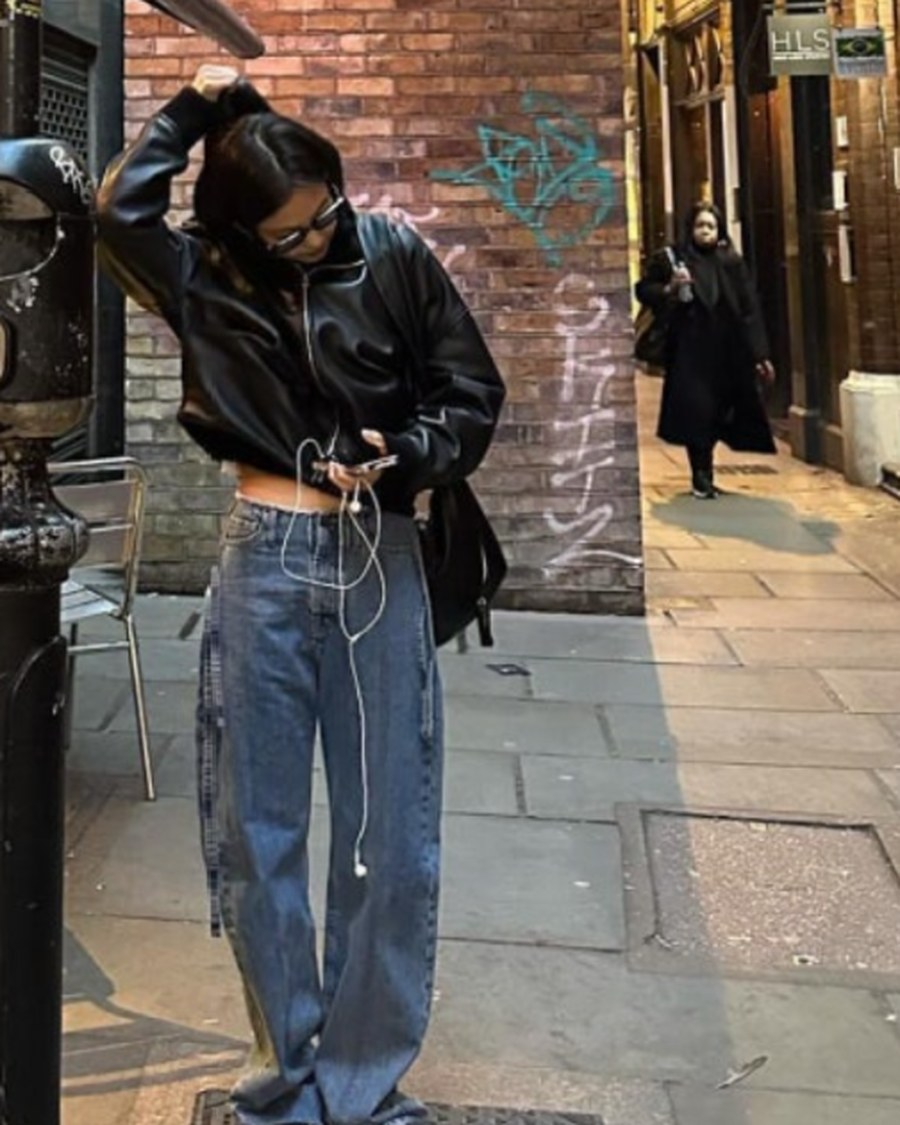
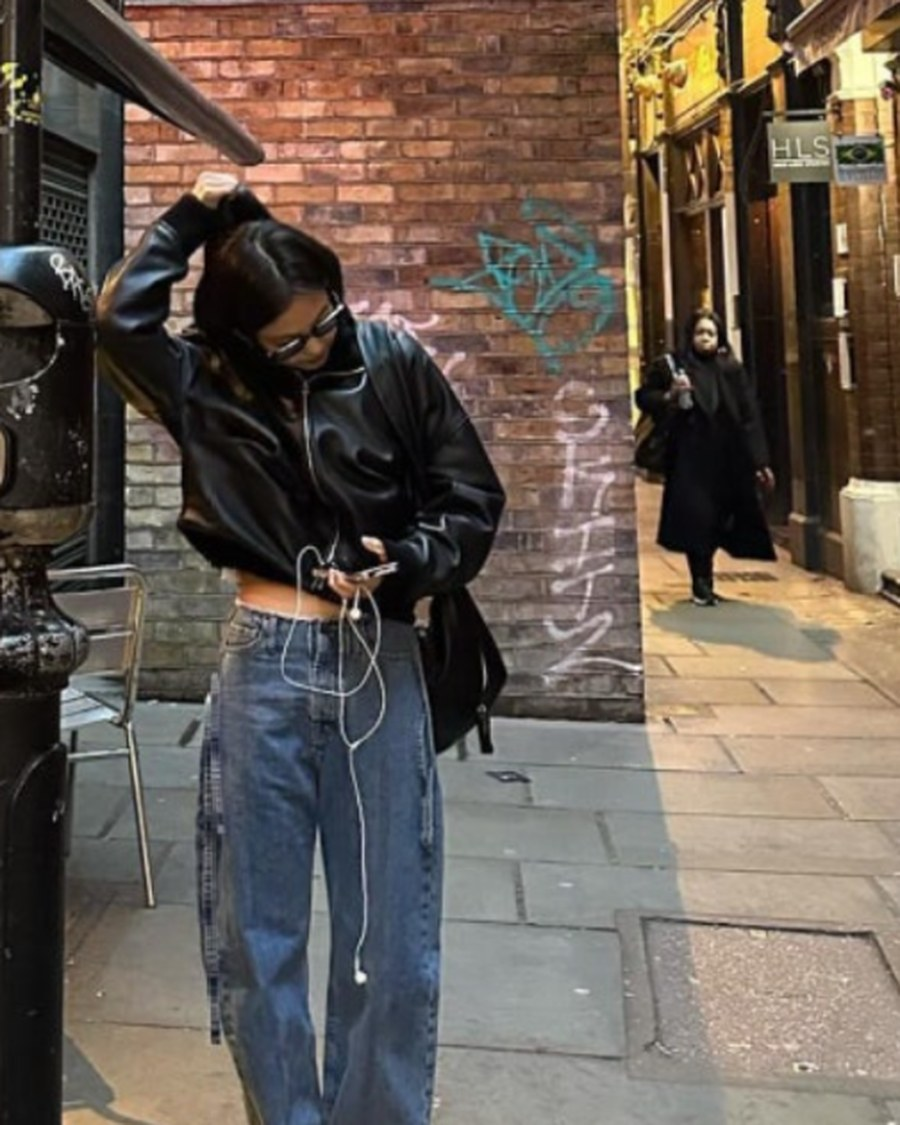
fix: 비교표 테이블 스타일, 카드 스크림 강화, 제니 이미지 크롭 보정

diff --git a/data/looks.js b/data/looks.js
@@ -10,8 +10,8 @@
 window.SFP_LOOKS = [
   {
     id: "jiwon-aloro-velvet",
-    image: "assets/looks/jiwon-aloro-velvet.webp?v=20261120b",
-    imageJpg: "assets/looks/jiwon-aloro-velvet.jpg?v=20261120b",
+    image: "assets/looks/jiwon-aloro-velvet.webp?v=20261120e",
+    imageJpg: "assets/looks/jiwon-aloro-velvet.jpg?v=20261120e",
     photo: {label: "PAP 매거진", kind: "photo", what: "공항 출국 현장 촬영", url: "https://www.pap-magazine.com/article/kim-ji-won-duvetica-airport-fashion-japan-fan-meeting"},
     imageAlt: "인천공항 출국길, 검정 벨벳 미드 다운 재킷에 화이트 니트와 블랙 쇼츠, 니삭스 차림으로 걷는 김지원",
     celeb: "김지원",
@@ -58,8 +58,8 @@ window.SFP_LOOKS = [
   },
   {
     id: "jiwon-teramo-backpack",
-    image: "assets/looks/jiwon-teramo-backpack.webp?v=20261120b",
-    imageJpg: "assets/looks/jiwon-teramo-backpack.jpg?v=20261120b",
+    image: "assets/looks/jiwon-teramo-backpack.webp?v=20261120e",
+    imageJpg: "assets/looks/jiwon-teramo-backpack.jpg?v=20261120e",
     photo: {label: "PAP 매거진", kind: "photo", what: "공항 출국 현장 촬영", url: "https://www.pap-magazine.com/article/kim-ji-won-duvetica-airport-fashion-japan-fan-meeting"},
     imageAlt: "인천공항 출국길, 검정 벨벳 패딩에 퀼팅 벨벳 백팩을 메고 걷는 김지원",
     celeb: "김지원",
@@ -105,8 +105,8 @@ window.SFP_LOOKS = [
   },
   {
     id: "jennie-subu-dot",
-    image: "assets/looks/jennie-subu-dot.webp?v=20261120b",
-    imageJpg: "assets/looks/jennie-subu-dot.jpg?v=20261120b",
+    image: "assets/looks/jennie-subu-dot.webp?v=20261120e",
+    imageJpg: "assets/looks/jennie-subu-dot.jpg?v=20261120e",
     photo: {label: "제니 인스타그램", kind: "photo", what: "인스타그램 공개 사진", url: "https://www.instagram.com/jennierubyjane/"},
     imageAlt: "런던 거리에서 레더 보머 재킷과 로즈 데님, 도트 패턴 수부 패딩 슬리퍼를 신은 제니",
     celeb: "제니",
@@ -153,8 +153,8 @@ window.SFP_LOOKS = [
   },
   {
     id: "wooyoung-tomboy-check",
-    image: "assets/looks/wooyoung-tomboy-check.webp?v=20261120b",
-    imageJpg: "assets/looks/wooyoung-tomboy-check.jpg?v=20261120b",
+    image: "assets/looks/wooyoung-tomboy-check.webp?v=20261120e",
+    imageJpg: "assets/looks/wooyoung-tomboy-check.jpg?v=20261120e",
     photo: {label: "디스패치", kind: "photo", what: "공항 출국 현장 촬영", url: "https://www.dispatch.co.kr/2342671"},
     imageAlt: "김포공항 출국길, 핑크 체크 셔츠에 데님과 레드 캡, 마스크 차림의 우영",
     celeb: "우영",
@@ -201,8 +201,8 @@ window.SFP_LOOKS = [
   },
   {
     id: "yoonseok-kume-knit",
-    image: "assets/looks/yoonseok-kume-knit.webp?v=20261120b",
-    imageJpg: "assets/looks/yoonseok-kume-knit.jpg?v=20261120b",
+    image: "assets/looks/yoonseok-kume-knit.webp?v=20261120e",
+    imageJpg: "assets/looks/yoonseok-kume-knit.jpg?v=20261120e",
     photo: {label: "SBS 틈만나면", kind: "photo", what: "64회 방송 화면", url: "https://programs.sbs.co.kr/enter/teum/vod/82255/22000639190"},
     imageAlt: "틈만나면, 시즌5 64회, 멜란지 그레이 컬러블록 넥라인 니트를 입고 이야기하는 유연석",
     celeb: "유연석",
@@ -247,8 +247,8 @@ window.SFP_LOOKS = [
   },
   {
     id: "seungho-diesel-biker",
-    image: "assets/looks/seungho-diesel-biker.webp?v=20261120b",
-    imageJpg: "assets/looks/seungho-diesel-biker.jpg?v=20261120b",
+    image: "assets/looks/seungho-diesel-biker.webp?v=20261120e",
+    imageJpg: "assets/looks/seungho-diesel-biker.jpg?v=20261120e",
     photo: {label: "SBS 틈만나면", kind: "photo", what: "62회 방송 화면", url: "https://programs.sbs.co.kr/enter/teum/clip/82063/OC482566177"},
     imageAlt: "틈만나면, 시즌5 62회, 베이지와 그린 컬러블록 레더 재킷을 입고 웃는 신승호",
     celeb: "신승호",
@@ -294,8 +294,8 @@ window.SFP_LOOKS = [
   },
   {
     id: "doyeon-atelier-yak",
-    image: "assets/looks/doyeon-atelier-yak.webp?v=20261120b",
-    imageJpg: "assets/looks/doyeon-atelier-yak.jpg?v=20261120b",
+    image: "assets/looks/doyeon-atelier-yak.webp?v=20261120e",
+    imageJpg: "assets/looks/doyeon-atelier-yak.jpg?v=20261120e",
     photo: {label: "아틀리에 나인 룩북", kind: "product", what: "브랜드 공식 룩북", url: "https://nain.co.kr/"},
     imageAlt: "올리브 컬러 야크 블렌드 머플러 니트를 입은 아틀리에 나인 공식 룩북 컷",
     celeb: "장도연",
@@ -342,8 +342,8 @@ window.SFP_LOOKS = [
   },
   {
     id: "yeeun-mahagrid-zip",
-    image: "assets/looks/yeeun-mahagrid-zip.webp?v=20261120b",
-    imageJpg: "assets/looks/yeeun-mahagrid-zip.jpg?v=20261120b",
+    image: "assets/looks/yeeun-mahagrid-zip.webp?v=20261120e",
+    imageJpg: "assets/looks/yeeun-mahagrid-zip.jpg?v=20261120e",
     photo: {label: "SBS 런닝맨", kind: "photo", what: "825회 방송 화면", url: "https://programs.sbs.co.kr/enter/runningman"},
     imageAlt: "런닝맨 825회, 흰 스티치 디테일의 그레이 크롭 니트 집업을 입고 웃는 지예은",
     celeb: "지예은",
@@ -390,8 +390,8 @@ window.SFP_LOOKS = [
   },
   {
     id: "sechan-wakei-pants",
-    image: "assets/looks/sechan-wakei-pants.webp?v=20261120b",
-    imageJpg: "assets/looks/sechan-wakei-pants.jpg?v=20261120b",
+    image: "assets/looks/sechan-wakei-pants.webp?v=20261120e",
+    imageJpg: "assets/looks/sechan-wakei-pants.jpg?v=20261120e",
     photo: {label: "와이케이 공식", kind: "product", what: "브랜드 제품 컷", url: "https://www.musinsa.com/search/musinsa/integration?q=%EC%99%80%EC%9D%B4%EC%BC%80%EC%9D%B4%20%EC%8A%A4%EC%BF%BC%ED%8A%B8%ED%8C%AC%EC%B8%A0"},
     imageAlt: "네이비 바탕에 흰 별 자수가 들어간 와이케이 체크 스타 자수 스웨트팬츠 제품 컷",
     celeb: "양세찬",
@@ -436,8 +436,8 @@ window.SFP_LOOKS = [
   },
   {
     id: "haha-adidas-hyperboost",
-    image: "assets/looks/haha-adidas-hyperboost.webp?v=20261120b",
-    imageJpg: "assets/looks/haha-adidas-hyperboost.jpg?v=20261120b",
+    image: "assets/looks/haha-adidas-hyperboost.webp?v=20261120e",
+    imageJpg: "assets/looks/haha-adidas-hyperboost.jpg?v=20261120e",
     photo: {label: "아디다스 공식", kind: "product", what: "브랜드 제품 컷", url: "https://www.adidas.co.kr/%ED%95%98%EC%9D%B4%ED%8D%BC%EB%B6%80%EC%8A%A4%ED%8A%B8-ephr-lt/KZ8509.html"},
     imageAlt: "검정 니트 어퍼에 흰 삼선이 들어간 아디다스 하이퍼부스트 EPHR LT 제품 컷",
     celeb: "하하",

diff --git a/index.html b/index.html
@@ -25,8 +25,8 @@
 <link rel="icon" href="assets/favicon.svg" type="image/svg+xml">
 <link rel="preconnect" href="https://cdn.jsdelivr.net" crossorigin>
 <link rel="stylesheet" href="https://cdn.jsdelivr.net/gh/orioncactus/pretendard@v1.3.9/dist/web/variable/pretendardvariable-dynamic-subset.min.css">
-<link rel="stylesheet" href="style.css?v=20261120d">
-<link rel="preload" as="image" href="assets/looks/jiwon-aloro-velvet.webp?v=20261120b" type="image/webp">
+<link rel="stylesheet" href="style.css?v=20261120e">
+<link rel="preload" as="image" href="assets/looks/jiwon-aloro-velvet.webp?v=20261120e" type="image/webp">
 <script type="application/ld+json">
 {"@context":"https://schema.org","@graph":[
 {"@type":"WebSite","@id":"https://jinyou1129-bit.github.io/star-fit-pick/#website","url":"https://jinyou1129-bit.github.io/star-fit-pick/","name":"스타핏픽","inLanguage":"ko-KR","description":"연예인 착장 사진과 브랜드·가격 좌표, 가성비 대안 비교","potentialAction":{"@type":"SearchAction","target":"https://jinyou1129-bit.github.io/star-fit-pick/?q={search_term_string}","query-input":"required name=search_term_string"}},
@@ -81,15 +81,15 @@
       <div class="hero-visual" aria-hidden="true">
         <figure class="hv hv-a">
           <picture>
-            <source srcset="assets/looks/jiwon-aloro-velvet.webp?v=20261120b" type="image/webp">
-            <img src="assets/looks/jiwon-aloro-velvet.jpg?v=20261120b" alt="" width="900" height="1125" loading="eager" fetchpriority="high" decoding="async">
+            <source srcset="assets/looks/jiwon-aloro-velvet.webp?v=20261120e" type="image/webp">
+            <img src="assets/looks/jiwon-aloro-velvet.jpg?v=20261120e" alt="" width="900" height="1125" loading="eager" fetchpriority="high" decoding="async">
           </picture>
           <figcaption>LOOK 01 · 김지원 · PAP 매거진</figcaption>
         </figure>
         <figure class="hv hv-b">
           <picture>
-            <source srcset="assets/looks/jennie-subu-dot.webp?v=20261120b" type="image/webp">
-            <img src="assets/looks/jennie-subu-dot.jpg?v=20261120b" alt="" width="900" height="1125" loading="eager" decoding="async">
+            <source srcset="assets/looks/jennie-subu-dot.webp?v=20261120e" type="image/webp">
+            <img src="assets/looks/jennie-subu-dot.jpg?v=20261120e" alt="" width="900" height="1125" loading="eager" decoding="async">
           </picture>
           <figcaption>LOOK 03 · 제니 · 인스타그램</figcaption>
         </figure>
@@ -378,8 +378,8 @@
 
 <noscript><p class="noscript">이 사이트의 필터·찜하기·무드 테스트는 JavaScript로 동작합니다. 브라우저에서 JavaScript를 켜 주세요.</p></noscript>
 
-<script src="data/config.js?v=20261120d"></script>
-<script src="data/looks.js?v=20261120d"></script>
-<script src="app.js?v=20261120d" defer></script>
+<script src="data/config.js?v=20261120e"></script>
+<script src="data/looks.js?v=20261120e"></script>
+<script src="app.js?v=20261120e" defer></script>
 </body>
 </html>

diff --git a/style.css b/style.css
@@ -215,8 +215,8 @@ ul,ol{padding:0;list-style:none}
 .card-img img{width:100%;height:100%;object-fit:cover;transition:transform .5s ease}
 .card-media:hover .card-img img{transform:scale(1.03)}
 .card-scrim{
-  position:absolute;inset:auto 0 0 0;height:52%;
-  background:linear-gradient(to top,rgba(0,0,0,.52),rgba(0,0,0,.12) 55%,rgba(0,0,0,0));
+  position:absolute;inset:auto 0 0 0;height:58%;
+  background:linear-gradient(to top,rgba(0,0,0,.68),rgba(0,0,0,.24) 52%,rgba(0,0,0,0));
   pointer-events:none;
 }
 .card-badge{
@@ -397,6 +397,18 @@ ul,ol{padding:0;list-style:none}
 .modal-story{font-size:14.5px;color:var(--sub);line-height:1.75;margin-top:14px}
 .modal-h3{font-size:13px;font-weight:800;letter-spacing:.06em;text-transform:uppercase;color:var(--muted);margin:26px 0 12px}
 .modal-compare{display:grid;gap:10px}
+.modal-compare table{width:100%;border-collapse:collapse;table-layout:fixed;font-size:13.5px;border:1px solid var(--line);border-radius:14px;overflow:hidden}
+.modal-compare caption{position:absolute;width:1px;height:1px;overflow:hidden;clip:rect(0 0 0 0)}
+.modal-compare th,.modal-compare td{border-bottom:1px solid var(--line);padding:12px 10px;text-align:left;vertical-align:top;word-break:keep-all;line-height:1.5}
+.modal-compare thead th{font-size:11px;letter-spacing:.06em;color:var(--muted);background:var(--soft-2);font-weight:700;white-space:nowrap}
+.modal-compare thead th:nth-child(2){background:#eef4ff;color:var(--blue-deep);width:42%}
+.modal-compare thead th:nth-child(3){background:#f4faf6;color:#0f7a4d;width:36%}
+.modal-compare thead th:first-child{width:22%}
+.modal-compare tbody th{font-size:12px;color:var(--muted);font-weight:700;background:#fcfcfd}
+.modal-compare tbody td{color:var(--ink);font-weight:600;font-size:13px}
+.modal-compare tbody td small{display:block;font-size:11.5px;color:var(--muted);font-weight:500;margin-top:2px}
+.modal-compare tfoot td{border-bottom:0;background:#fff5f6;color:#c62828;font-weight:800;font-size:12.5px;padding:12px 10px}
+.modal-compare tfoot td:only-child{text-align:center}
 .cmp{display:grid;grid-template-columns:1fr auto;gap:10px;align-items:center;border:1px solid var(--line);border-radius:14px;padding:14px 16px}
 .cmp.alt{border-color:#d5e6ff;background:#f7fbff}
 .cmp b{font-size:14px;color:var(--ink);display:block}

diff --git a/guide-winter-padding.html b/guide-winter-padding.html
@@ -19,7 +19,7 @@
 <link rel="icon" href="assets/favicon.svg" type="image/svg+xml">
 <link rel="preconnect" href="https://cdn.jsdelivr.net" crossorigin>
 <link rel="stylesheet" href="https://cdn.jsdelivr.net/gh/orioncactus/pretendard@v1.3.9/dist/web/variable/pretendardvariable-dynamic-subset.min.css">
-<link rel="stylesheet" href="style.css?v=20261120d">
+<link rel="stylesheet" href="style.css?v=20261120e">
 <script type="application/ld+json">
 {"@context":"https://schema.org","@type":"Article","headline":"겨울 숏패딩·벨벳 패딩 체형별로 고르는 법","description":"기장과 충전재, 겉감 광택이 실루엣을 어떻게 바꾸는지 정리했습니다. 김지원 공항패딩 같은 미드 다운을 기준으로 체형별 선택법을 비교합니다.","datePublished":"2026-11-20","dateModified":"2026-11-20","inLanguage":"ko-KR","author":{"@type":"Organization","name":"스타핏픽"},"publisher":{"@type":"Organization","name":"스타핏픽"},"mainEntityOfPage":{"@type":"WebPage","@id":"https://jinyou1129-bit.github.io/star-fit-pick/guide-winter-padding.html"}}
 </script>

diff --git a/guide-airport-layering.html b/guide-airport-layering.html
@@ -19,7 +19,7 @@
 <link rel="icon" href="assets/favicon.svg" type="image/svg+xml">
 <link rel="preconnect" href="https://cdn.jsdelivr.net" crossorigin>
 <link rel="stylesheet" href="https://cdn.jsdelivr.net/gh/orioncactus/pretendard@v1.3.9/dist/web/variable/pretendardvariable-dynamic-subset.min.css">
-<link rel="stylesheet" href="style.css?v=20261120d">
+<link rel="stylesheet" href="style.css?v=20261120e">
 <script type="application/ld+json">
 {"@context":"https://schema.org","@type":"Article","headline":"10만 원대로 따라 입는 공항패션 레이어드 공식","description":"김지원 공항룩의 구조를 뜯어보고, 같은 인상을 10만 원대 아이템으로 재구성하는 순서를 정리했습니다.","datePublished":"2026-11-20","dateModified":"2026-11-20","inLanguage":"ko-KR","author":{"@type":"Organization","name":"스타핏픽"},"publisher":{"@type":"Organization","name":"스타핏픽"},"mainEntityOfPage":{"@type":"WebPage","@id":"https://jinyou1129-bit.github.io/star-fit-pick/guide-airport-layering.html"}}
 </script>

diff --git a/guide-variety-casual.html b/guide-variety-casual.html
@@ -19,7 +19,7 @@
 <link rel="icon" href="assets/favicon.svg" type="image/svg+xml">
 <link rel="preconnect" href="https://cdn.jsdelivr.net" crossorigin>
 <link rel="stylesheet" href="https://cdn.jsdelivr.net/gh/orioncactus/pretendard@v1.3.9/dist/web/variable/pretendardvariable-dynamic-subset.min.css">
-<link rel="stylesheet" href="style.css?v=20261120d">
+<link rel="stylesheet" href="style.css?v=20261120e">
 <script type="application/ld+json">
 {"@context":"https://schema.org","@type":"Article","headline":"예능 캐주얼, 스웨트팬츠와 러닝화 데일리 매치 가이드","description":"크롭 니트 집업, 스웨트팬츠, 쿠셔닝 러닝화를 일상복으로 정리하는 비율 공식을 정리했습니다.","datePublished":"2026-11-20","dateModified":"2026-11-20","inLanguage":"ko-KR","author":{"@type":"Organization","name":"스타핏픽"},"publisher":{"@type":"Organization","name":"스타핏픽"},"mainEntityOfPage":{"@type":"WebPage","@id":"https://jinyou1129-bit.github.io/star-fit-pick/guide-variety-casual.html"}}
 </script>

diff --git a/guide-knit-care.html b/guide-knit-care.html
@@ -19,7 +19,7 @@
 <link rel="icon" href="assets/favicon.svg" type="image/svg+xml">
 <link rel="preconnect" href="https://cdn.jsdelivr.net" crossorigin>
 <link rel="stylesheet" href="https://cdn.jsdelivr.net/gh/orioncactus/pretendard@v1.3.9/dist/web/variable/pretendardvariable-dynamic-subset.min.css">
-<link rel="stylesheet" href="style.css?v=20261120d">
+<link rel="stylesheet" href="style.css?v=20261120e">
 <script type="application/ld+json">
 {"@context":"https://schema.org","@type":"Article","headline":"캐시미어·야크 울 니트, 보풀 없이 오래 입는 관리법","description":"비싼 니트가 두 번째 겨울에 망가지는 이유와, 세탁·건조·보관 순서를 정리했습니다.","datePublished":"2026-11-20","dateModified":"2026-11-20","inLanguage":"ko-KR","author":{"@type":"Organization","name":"스타핏픽"},"publisher":{"@type":"Organization","name":"스타핏픽"},"mainEntityOfPage":{"@type":"WebPage","@id":"https://jinyou1129-bit.github.io/star-fit-pick/guide-knit-care.html"}}
 </script>

diff --git a/guide-luxury-vs-value.html b/guide-luxury-vs-value.html
@@ -19,7 +19,7 @@
 <link rel="icon" href="assets/favicon.svg" type="image/svg+xml">
 <link rel="preconnect" href="https://cdn.jsdelivr.net" crossorigin>
 <link rel="stylesheet" href="https://cdn.jsdelivr.net/gh/orioncactus/pretendard@v1.3.9/dist/web/variable/pretendardvariable-dynamic-subset.min.css">
-<link rel="stylesheet" href="style.css?v=20261120d">
+<link rel="stylesheet" href="style.css?v=20261120e">
 <script type="application/ld+json">
 {"@context":"https://schema.org","@type":"Article","headline":"명품 vs 가성비 브랜드, 소재와 핏은 얼마나 다를까","description":"가격 차이가 실제로 어디에서 오는지, 소재·봉제·핏 세 가지로 나눠 비교했습니다.","datePublished":"2026-11-20","dateModified":"2026-11-20","inLanguage":"ko-KR","author":{"@type":"Organization","name":"스타핏픽"},"publisher":{"@type":"Organization","name":"스타핏픽"},"mainEntityOfPage":{"@type":"WebPage","@id":"https://jinyou1129-bit.github.io/star-fit-pick/guide-luxury-vs-value.html"}}
 </script>

diff --git a/guide-fit-by-body.html b/guide-fit-by-body.html
@@ -19,7 +19,7 @@
 <link rel="icon" href="assets/favicon.svg" type="image/svg+xml">
 <link rel="preconnect" href="https://cdn.jsdelivr.net" crossorigin>
 <link rel="stylesheet" href="https://cdn.jsdelivr.net/gh/orioncactus/pretendard@v1.3.9/dist/web/variable/pretendardvariable-dynamic-subset.min.css">
-<link rel="stylesheet" href="style.css?v=20261120d">
+<link rel="stylesheet" href="style.css?v=20261120e">
 <script type="application/ld+json">
 {"@context":"https://schema.org","@type":"Article","headline":"키·체형별로 기장 잡는 법: 코트·패딩·니트","description":"같은 옷도 기장에 따라 다르게 보입니다. 키와 체형별 기준선을 숫자로 정리했습니다.","datePublished":"2026-11-20","dateModified":"2026-11-20","inLanguage":"ko-KR","author":{"@type":"Organization","name":"스타핏픽"},"publisher":{"@type":"Organization","name":"스타핏픽"},"mainEntityOfPage":{"@type":"WebPage","@id":"https://jinyou1129-bit.github.io/star-fit-pick/guide-fit-by-body.html"}}
 </script>

diff --git a/guides.html b/guides.html
@@ -19,7 +19,7 @@
 <link rel="icon" href="assets/favicon.svg" type="image/svg+xml">
 <link rel="preconnect" href="https://cdn.jsdelivr.net" crossorigin>
 <link rel="stylesheet" href="https://cdn.jsdelivr.net/gh/orioncactus/pretendard@v1.3.9/dist/web/variable/pretendardvariable-dynamic-subset.min.css">
-<link rel="stylesheet" href="style.css?v=20261120d">
+<link rel="stylesheet" href="style.css?v=20261120e">
 <script type="application/ld+json">
 {"@context":"https://schema.org","@type":"CollectionPage","name":"패션 가이드 6편","url":"https://jinyou1129-bit.github.io/star-fit-pick/guides.html","inLanguage":"ko-KR","description":"연예인 착장을 기준으로 패딩·레이어드·니트 관리·캐주얼 매치·명품 비교·기장 잡기까지 6편의 실전 패션 가이드를 모았습니다."}
 </script>

diff --git a/404.html b/404.html
@@ -19,7 +19,7 @@
 <link rel="icon" href="assets/favicon.svg" type="image/svg+xml">
 <link rel="preconnect" href="https://cdn.jsdelivr.net" crossorigin>
 <link rel="stylesheet" href="https://cdn.jsdelivr.net/gh/orioncactus/pretendard@v1.3.9/dist/web/variable/pretendardvariable-dynamic-subset.min.css">
-<link rel="stylesheet" href="style.css?v=20261120d">
+<link rel="stylesheet" href="style.css?v=20261120e">
 </head>
 <body>
 <a class="skip" href="#main">본문으로 바로가기</a>

diff --git a/about.html b/about.html
@@ -19,7 +19,7 @@
 <link rel="icon" href="assets/favicon.svg" type="image/svg+xml">
 <link rel="preconnect" href="https://cdn.jsdelivr.net" crossorigin>
 <link rel="stylesheet" href="https://cdn.jsdelivr.net/gh/orioncactus/pretendard@v1.3.9/dist/web/variable/pretendardvariable-dynamic-subset.min.css">
-<link rel="stylesheet" href="style.css?v=20261120d">
+<link rel="stylesheet" href="style.css?v=20261120e">
 </head>
 <body>
 <a class="skip" href="#main">본문으로 바로가기</a>
